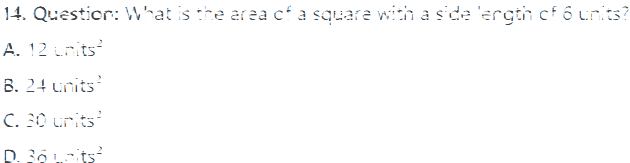
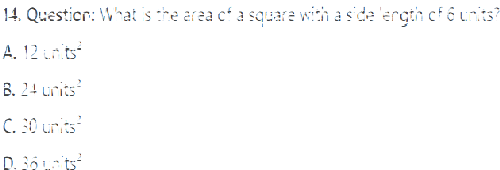
update images treater

diff --git a/images treater/resizer.py b/images treater/resizer.py
@@ -1,0 +1,27 @@
+import pygame
+
+i=1
+
+def resize(image):
+    """Crop image to bounding box of non-transparent pixels."""
+    resized=pygame.transform.scale(image,(500,170))
+    #resized.blit(image, (0, 0), rect)
+    return resized
+
+# Init pygame (needed for image functions)
+pygame.init()
+pygame.display.set_mode((1, 1), pygame.HIDDEN)
+while(i<16):
+    #if i < 10:
+    sprite = pygame.image.load(f"Assets\Questions\Easy\{i}.png")
+    #elif i>=10:
+     #   sprite = pygame.image.load(f"cropper\\toberesized\enemy3\Walking\Wraith_02_Moving Forward_0{i}.png").convert_alpha()
+
+    # Crop it
+    resized_sprite = resize(sprite)
+
+    # Save to new file
+    pygame.image.save(resized_sprite, f"{i}.png")
+    i+=1
+
+print("✅ Saved resized sprite as sprite_resized.png")

diff --git a/dd.py b/dd.py
@@ -634,8 +634,8 @@ while(True):
             playerattack=False    
     if question_scrn:
         screen.blit(board.frameF,board.rect)
-        random.randint(0,2)
-        screen.blit(question_easy[].frameF,question_easy[4].rect)
+        quest=9
+        screen.blit(question_easy[quest].frameF,question_easy[quest].rect)
         if(kpressed[pygame.K_o]):
             player.playerrect.bottom=ground
             player.index=0
